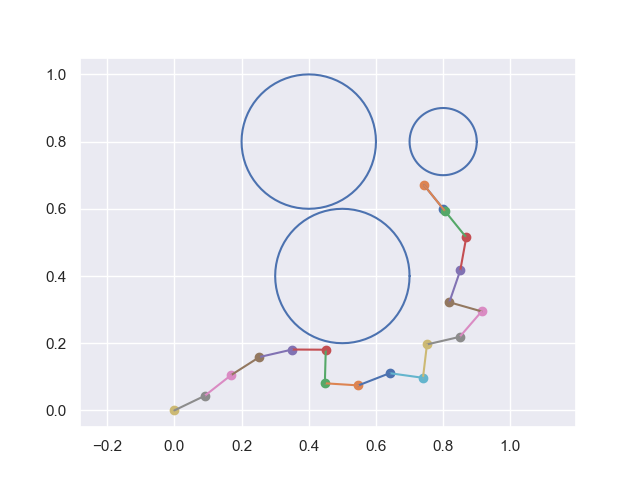
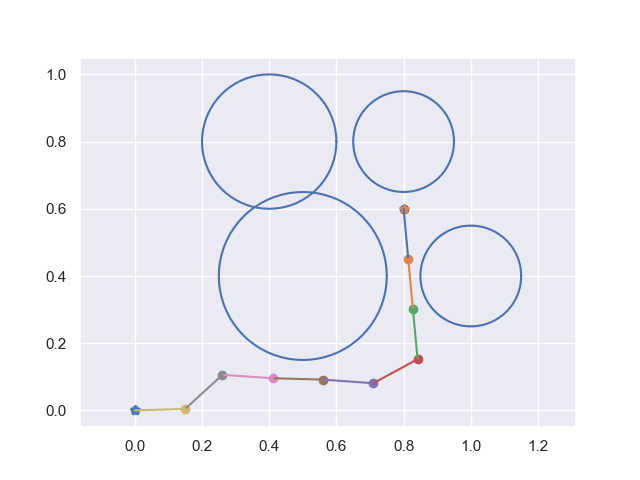
update RRT

diff --git a/PythonRobotics/PathPlanning/rrt.py b/PythonRobotics/PathPlanning/rrt.py
@@ -4,16 +4,14 @@ import jax.random as random
 import seaborn as sns
 import matplotlib.pyplot as plt
 from typing import Tuple
-import math
-import numpy as np
 import copy
 
 
-def plot_circle(x, y, size, color="-b"):  # pragma: no cover
+def plot_circle(x, y, size, color="-b"):
     deg = list(range(0, 360, 5))
     deg.append(0)
-    xl = [x + size * math.cos(np.deg2rad(d)) for d in deg]
-    yl = [y + size * math.sin(np.deg2rad(d)) for d in deg]
+    xl = [x + size * jnp.cos(jnp.deg2rad(d)) for d in deg]
+    yl = [y + size * jnp.sin(jnp.deg2rad(d)) for d in deg]
     plt.plot(xl, yl, color)
 
 class Node:
@@ -34,7 +32,7 @@ class Node:
     
     
 class WorldMap:
-    def __init__(self, arena) -> None:
+    def __init__(self, arena, resolution: float = 0.01) -> None:
         
         self.xmin = float(arena[0])
         self.xmax = float(arena[1])
@@ -43,6 +41,8 @@ class WorldMap:
         
         self._lb = jnp.array([self.xmin, self.ymin])
         self._ub = jnp.array([self.xmax, self.ymax])
+        
+        self._resolution = resolution
         
         self._dim = 2
         
@@ -69,9 +69,9 @@ class WorldMap:
             self._rng_key, rng_key = random.split(self._rng_key, 2)
             return random.uniform(rng_key, shape=(self._dim,), minval=self._lb, maxval=self._ub)
         
-    def check_collision(self, start_state: jnp.ndarray, end_state: jnp.ndarray, resolution: float) -> bool:
+    def check_collision(self, start_state: jnp.ndarray, end_state: jnp.ndarray) -> bool:
         state_distance = jnp.linalg.norm(start_state - end_state)
-        N = int(state_distance / resolution)
+        N = int(state_distance / self._resolution)
         ratios = jnp.linspace(0., 1.0, num=N)
         for (ox, oy, size) in self._obstacle:
             center = jnp.array([ox, oy])
@@ -89,6 +89,7 @@ class RRT:
                  start_config: jnp.ndarray,
                  goal_config: jnp.ndarray,
                  map: WorldMap,
+                 step_size: float = 0.1,
                  max_iter: int = 500
                  ) -> None:
         self._start = Node(start_config)
@@ -99,7 +100,7 @@ class RRT:
         self._map = map
         self._node_list = []
         
-        self._step_size = 0.1
+        self._step_size = step_size
         self._max_iter = max_iter
         self._goal_sample_rate = 5
         
@@ -134,7 +135,7 @@ class RRT:
         return new_node
     
     def _check_collision(self, node1: Node, node2: Node) -> bool:
-        return self._map.check_collision(node1.state, node2.state, self._resolution)
+        return self._map.check_collision(node1.state, node2.state)
         
         
     def plan(self, animation=True, verbose=False):
@@ -160,6 +161,8 @@ class RRT:
                 self._node_list.append(new_node)
                 print('Find a feasible path.')
                 return self._generate_final_course()
+            else:
+                print(f'[Info]: Iter: {i}')
         print('Failed to find a feasible path.')
         return self._generate_final_course()
     
@@ -189,20 +192,24 @@ if __name__ == '__main__':
     world_map.update_start(start)
     world_map.update_goal(goal)
     
-    obs1 = (0.5, 0.4, 0.3)
+    obs1 = (0.5, 0.4, 0.25)
     obs2 = (0.4, 0.8, 0.2)
-    obs3 = (0.8, 0.8, 0.1)
+    obs3 = (0.8, 0.8, 0.15)
+    obs4 = (1.0, 0.4, 0.15)
     world_map.add_obstacle(obs1)
     world_map.add_obstacle(obs2)
     world_map.add_obstacle(obs3)
+    world_map.add_obstacle(obs4)
     
     rrt = RRT(
         start_config=start,
         goal_config=goal,
-        map=world_map
+        map=world_map,
+        step_size=0.1
     )
     
     path_solution = rrt.plan()
+    print(f'Path Length: {len(path_solution)}')
     
     if path_solution is not None:
         path = jnp.array(path_solution)

diff --git a/PythonRobotics/PathPlanning/rrt_star.py b/PythonRobotics/PathPlanning/rrt_star.py
@@ -1,0 +1,31 @@
+"""RRT* Implementation"""
+import jax.numpy as jnp
+import jax.random as random
+import seaborn as sns
+import matplotlib.pyplot as plt
+from typing import Tuple
+import copy
+from rrt import WorldMap, Node
+
+
+class RRTStar:
+    def __init__(self, 
+                 start_config: jnp.ndarray,
+                 goal_config: jnp.ndarray,
+                 map: WorldMap,
+                 step_size: float = 0.1,
+                 max_iter: int = 500
+                 ) -> None:
+        self._start = Node(start_config)
+        self._goal = Node(goal_config)
+        
+        self._resolution = 0.01
+        
+        self._map = map
+        self._node_list = []
+        
+        self._step_size = step_size
+        self._max_iter = max_iter
+        self._goal_sample_rate = 5
+        
+        self._rng_key = random.PRNGKey(seed=4)
